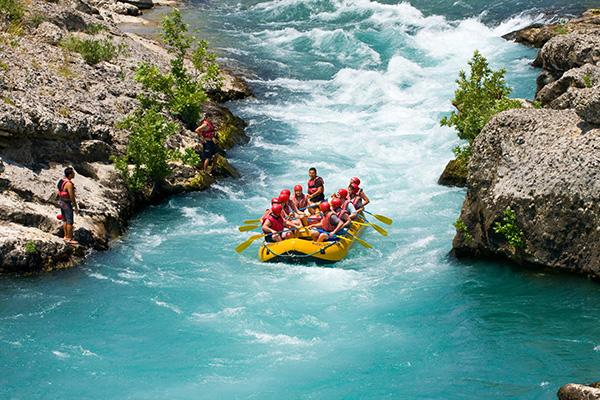
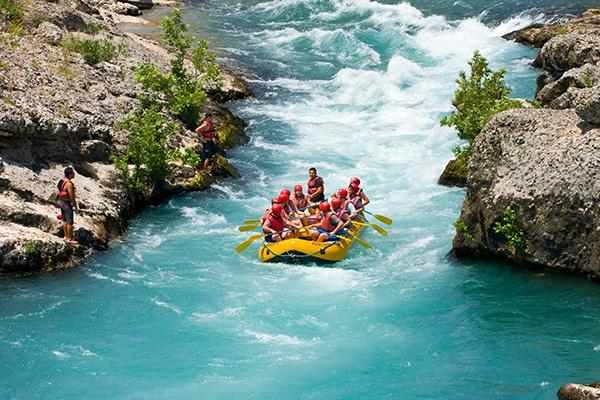
Edited about Us page

diff --git a/wwr/styles/rafting.css b/wwr/styles/rafting.css
@@ -146,7 +146,8 @@ section {
     border: 1px solid rgb(0 0 0 / 10%);
     background-color: var(--accent2-color);
     width: min(800px, 100%);
-    display: flex 1 1;
+    display: flex;
+    flex-wrap: wrap;
     list-style: none;
 }
 
@@ -161,8 +162,10 @@ code {
     line-height: 1.6;
 }
 
-.history image {
+.himage {
     float: left;
+    display: flex;
+    flex-wrap: wrap;
     width: 240px;
     height: auto;
     margin: 10px 25px 15px 0;

diff --git a/wwr/about.html b/wwr/about.html
@@ -68,7 +68,7 @@
                 History
             </h2>
             <p>
-                <img src="images/rafting20_600.jpg" alt="rafting paddles" class="history-image">
+                <img src="images/rafting20_600.jpg" alt="rafting paddles" class="himage">
                 The roots of Zomba Rafting
                 Experience
                 trace back to a shared love
